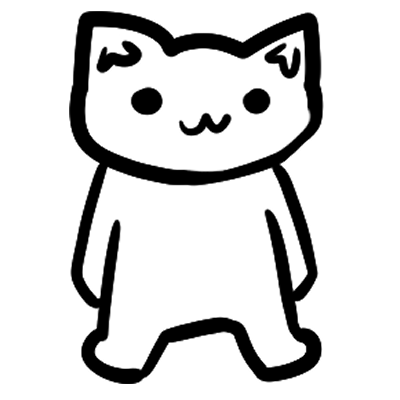
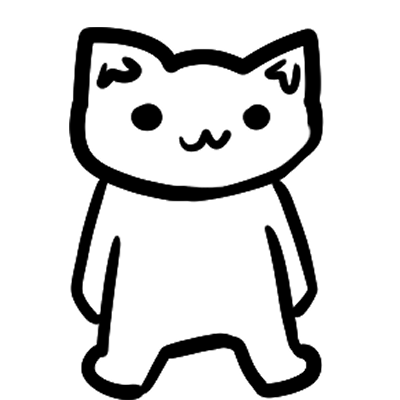
platforms

Changed region(s): [[0.15, 0.03, 0.81, 1.0]]

diff --git a/home.html b/home.html
@@ -14,6 +14,43 @@
 <p>Lorem ipsum dolor sit amet, consectetur adipisicing elit. Inventore quidem laboriosam optio, quaerat fugiat repudiandae assumenda quas blanditiis tempore? Delectus incidunt amet facere a odit. Hic quod recusandae nulla ad.</p>
         <div class="link" data-link="page3.html">Page 3</div>
     </div>
+    <div class="platform-zone" style="left: 100px; top: 300px; width: 400px; height: 1px;"></div>
+    <div class="platform-zone" style="left: 400px; top: 600px; width: 500px;"></div>
+    <div class="platform-zone" style="left: 600px; top: 1000px; width: 500px; height: 400px;"></div>
+
+    <p>Lorem ipsum dolor sit amet, consectetur adipisicing elit. Inventore quidem laboriosam optio, quaerat fugiat repudiandae assumenda quas blanditiis tempore? Delectus incidunt amet facere a odit. Hic quod recusandae nulla ad.</p>
+    <p>Lorem ipsum dolor sit amet, consectetur adipisicing elit. Inventore quidem laboriosam optio, quaerat fugiat repudiandae assumenda quas blanditiis tempore? Delectus incidunt amet facere a odit. Hic quod recusandae nulla ad.</p>
+    <p>Lorem ipsum dolor sit amet, consectetur adipisicing elit. Inventore quidem laboriosam optio, quaerat fugiat repudiandae assumenda quas blanditiis tempore? Delectus incidunt amet facere a odit. Hic quod recusandae nulla ad.</p>
+    <p>Lorem ipsum dolor sit amet, consectetur adipisicing elit. Inventore quidem laboriosam optio, quaerat fugiat repudiandae assumenda quas blanditiis tempore? Delectus incidunt amet facere a odit. Hic quod recusandae nulla ad.</p>
+    <p>Lorem ipsum dolor sit amet, consectetur adipisicing elit. Inventore quidem laboriosam optio, quaerat fugiat repudiandae assumenda quas blanditiis tempore? Delectus incidunt amet facere a odit. Hic quod recusandae nulla ad.</p>
+    <p>Lorem ipsum dolor sit amet, consectetur adipisicing elit. Inventore quidem laboriosam optio, quaerat fugiat repudiandae assumenda quas blanditiis tempore? Delectus incidunt amet facere a odit. Hic quod recusandae nulla ad.</p>
+    <p>Lorem ipsum dolor sit amet, consectetur adipisicing elit. Inventore quidem laboriosam optio, quaerat fugiat repudiandae assumenda quas blanditiis tempore? Delectus incidunt amet facere a odit. Hic quod recusandae nulla ad.</p>
+    <p>Lorem ipsum dolor sit amet, consectetur adipisicing elit. Inventore quidem laboriosam optio, quaerat fugiat repudiandae assumenda quas blanditiis tempore? Delectus incidunt amet facere a odit. Hic quod recusandae nulla ad.</p>
+    <p>Lorem ipsum dolor sit amet, consectetur adipisicing elit. Inventore quidem laboriosam optio, quaerat fugiat repudiandae assumenda quas blanditiis tempore? Delectus incidunt amet facere a odit. Hic quod recusandae nulla ad.</p>
+    <p>Lorem ipsum dolor sit amet, consectetur adipisicing elit. Inventore quidem laboriosam optio, quaerat fugiat repudiandae assumenda quas blanditiis tempore? Delectus incidunt amet facere a odit. Hic quod recusandae nulla ad.</p>
+    <p>Lorem ipsum dolor sit amet, consectetur adipisicing elit. Inventore quidem laboriosam optio, quaerat fugiat repudiandae assumenda quas blanditiis tempore? Delectus incidunt amet facere a odit. Hic quod recusandae nulla ad.</p>
+    <p>Lorem ipsum dolor sit amet, consectetur adipisicing elit. Inventore quidem laboriosam optio, quaerat fugiat repudiandae assumenda quas blanditiis tempore? Delectus incidunt amet facere a odit. Hic quod recusandae nulla ad.</p>
+    <p>Lorem ipsum dolor sit amet, consectetur adipisicing elit. Inventore quidem laboriosam optio, quaerat fugiat repudiandae assumenda quas blanditiis tempore? Delectus incidunt amet facere a odit. Hic quod recusandae nulla ad.</p>
+    <p>Lorem ipsum dolor sit amet, consectetur adipisicing elit. Inventore quidem laboriosam optio, quaerat fugiat repudiandae assumenda quas blanditiis tempore? Delectus incidunt amet facere a odit. Hic quod recusandae nulla ad.</p>
+    <p>Lorem ipsum dolor sit amet, consectetur adipisicing elit. Inventore quidem laboriosam optio, quaerat fugiat repudiandae assumenda quas blanditiis tempore? Delectus incidunt amet facere a odit. Hic quod recusandae nulla ad.</p>
+    <p>Lorem ipsum dolor sit amet, consectetur adipisicing elit. Inventore quidem laboriosam optio, quaerat fugiat repudiandae assumenda quas blanditiis tempore? Delectus incidunt amet facere a odit. Hic quod recusandae nulla ad.</p>
+    <p>Lorem ipsum dolor sit amet, consectetur adipisicing elit. Inventore quidem laboriosam optio, quaerat fugiat repudiandae assumenda quas blanditiis tempore? Delectus incidunt amet facere a odit. Hic quod recusandae nulla ad.</p>
+    <p>Lorem ipsum dolor sit amet, consectetur adipisicing elit. Inventore quidem laboriosam optio, quaerat fugiat repudiandae assumenda quas blanditiis tempore? Delectus incidunt amet facere a odit. Hic quod recusandae nulla ad.</p>
+    <p>Lorem ipsum dolor sit amet, consectetur adipisicing elit. Inventore quidem laboriosam optio, quaerat fugiat repudiandae assumenda quas blanditiis tempore? Delectus incidunt amet facere a odit. Hic quod recusandae nulla ad.</p>
+    <p>Lorem ipsum dolor sit amet, consectetur adipisicing elit. Inventore quidem laboriosam optio, quaerat fugiat repudiandae assumenda quas blanditiis tempore? Delectus incidunt amet facere a odit. Hic quod recusandae nulla ad.</p>
+    <p>Lorem ipsum dolor sit amet, consectetur adipisicing elit. Inventore quidem laboriosam optio, quaerat fugiat repudiandae assumenda quas blanditiis tempore? Delectus incidunt amet facere a odit. Hic quod recusandae nulla ad.</p>
+    <p>Lorem ipsum dolor sit amet, consectetur adipisicing elit. Inventore quidem laboriosam optio, quaerat fugiat repudiandae assumenda quas blanditiis tempore? Delectus incidunt amet facere a odit. Hic quod recusandae nulla ad.</p>
+    <p>Lorem ipsum dolor sit amet, consectetur adipisicing elit. Inventore quidem laboriosam optio, quaerat fugiat repudiandae assumenda quas blanditiis tempore? Delectus incidunt amet facere a odit. Hic quod recusandae nulla ad.</p>
+    <p>Lorem ipsum dolor sit amet, consectetur adipisicing elit. Inventore quidem laboriosam optio, quaerat fugiat repudiandae assumenda quas blanditiis tempore? Delectus incidunt amet facere a odit. Hic quod recusandae nulla ad.</p>
+    <p>Lorem ipsum dolor sit amet, consectetur adipisicing elit. Inventore quidem laboriosam optio, quaerat fugiat repudiandae assumenda quas blanditiis tempore? Delectus incidunt amet facere a odit. Hic quod recusandae nulla ad.</p>
+    <p>Lorem ipsum dolor sit amet, consectetur adipisicing elit. Inventore quidem laboriosam optio, quaerat fugiat repudiandae assumenda quas blanditiis tempore? Delectus incidunt amet facere a odit. Hic quod recusandae nulla ad.</p>
+    <p>Lorem ipsum dolor sit amet, consectetur adipisicing elit. Inventore quidem laboriosam optio, quaerat fugiat repudiandae assumenda quas blanditiis tempore? Delectus incidunt amet facere a odit. Hic quod recusandae nulla ad.</p>
+    <p>Lorem ipsum dolor sit amet, consectetur adipisicing elit. Inventore quidem laboriosam optio, quaerat fugiat repudiandae assumenda quas blanditiis tempore? Delectus incidunt amet facere a odit. Hic quod recusandae nulla ad.</p>
+    <p>Lorem ipsum dolor sit amet, consectetur adipisicing elit. Inventore quidem laboriosam optio, quaerat fugiat repudiandae assumenda quas blanditiis tempore? Delectus incidunt amet facere a odit. Hic quod recusandae nulla ad.</p>
+    <p>Lorem ipsum dolor sit amet, consectetur adipisicing elit. Inventore quidem laboriosam optio, quaerat fugiat repudiandae assumenda quas blanditiis tempore? Delectus incidunt amet facere a odit. Hic quod recusandae nulla ad.</p>
+    <p>Lorem ipsum dolor sit amet, consectetur adipisicing elit. Inventore quidem laboriosam optio, quaerat fugiat repudiandae assumenda quas blanditiis tempore? Delectus incidunt amet facere a odit. Hic quod recusandae nulla ad.</p>
+    <p>Lorem ipsum dolor sit amet, consectetur adipisicing elit. Inventore quidem laboriosam optio, quaerat fugiat repudiandae assumenda quas blanditiis tempore? Delectus incidunt amet facere a odit. Hic quod recusandae nulla ad.</p>
+d
     <p>Lorem, ipsum dolor sit amet consectetur adipisicing elit. Soluta, quibusdam debitis modi odio fugit pariatur repellendus earum iusto. Corporis tempora voluptas hic? Praesentium, inventore! Laudantium corrupti nam beatae repudiandae est.</p>
     <script src="script.js"></script>
 </body>

diff --git a/script.js b/script.js
@@ -1,90 +1,150 @@
 document.addEventListener('DOMContentLoaded', () => {
     const character = document.querySelector('.character');
     const links = document.querySelectorAll('.link');
+    const platforms = document.querySelectorAll('.platform-zone');
 
-    let x = window.innerWidth / 2 - 25; // Initial X position
+    let x = window.innerWidth / 2 - 25;  // Initial X position
     let y = window.innerHeight / 2 - 25; // Initial Y position
     const step = 8; // Horizontal movement step in pixels
     const gravity = 1; // Gravity force (in pixels per frame)
     const jumpStrength = -30; // Jump strength (negative for upward movement)
     let velocityY = 0; // Current vertical velocity
     const keys = {}; // Object to track pressed keys
-    const groundLevel = window.innerHeight+5; // aPosition of the ground (bottom of the screen)
+    let onGround = false; // To check if character is on a platform or ground
 
+    // Make sure to adjust the ground level and body height for scrolling
+    const groundLevel = document.documentElement.scrollHeight - character.offsetHeight;
+    document.body.style.height = `${document.documentElement.scrollHeight}px`;
 
-
-    
     // Set the initial position
     character.style.left = `${x}px`;
     character.style.top = `${y}px`;
 
-    // Check for collision between character and links
-    function checkCollision() {
+    // Check for collision with links
+    function checkCollisionWithLinks() {
         const charRect = character.getBoundingClientRect();
-
         links.forEach(link => {
             const linkRect = link.getBoundingClientRect();
-
-            // Check if the rectangles overlap
             if (
                 charRect.left < linkRect.right &&
                 charRect.right > linkRect.left &&
                 charRect.top < linkRect.bottom &&
                 charRect.bottom > linkRect.top
             ) {
-                // Navigate to the link's URL
                 window.location.href = link.dataset.link;
+            }
+        });
+    }
+
+    // Check for collision with platforms
+    function checkCollisionWithPlatforms() {
+        onGround = false; // Reset ground status
+
+        platforms.forEach(platform => {
+            // Get platform's absolute position
+            const platformTop = platform.offsetTop;
+            const platformBottom = platformTop + platform.offsetHeight;
+            const platformLeft = platform.offsetLeft;
+            const platformRight = platformLeft + platform.offsetWidth;
+
+            // Character's absolute position and hitbox dimensions
+            const characterTop = y;
+            const characterBottom = y + character.offsetHeight;
+            const characterLeft = x - 30;
+            const characterRight = x + character.offsetWidth - 70;
+
+            // Top collision (landing on platform)
+            if (
+                characterRight > platformLeft &&
+                characterLeft < platformRight &&
+                characterBottom <= platformTop + velocityY &&
+                characterBottom + velocityY >= platformTop &&
+                velocityY >= 0
+            ) {
+                y = platformTop - character.offsetHeight;
+                velocityY = 0;
+                onGround = true;
+            }
+
+            // Bottom collision (hitting the underside of the platform)
+            if (
+                characterRight > platformLeft &&
+                characterLeft < platformRight &&
+                characterTop >= platformBottom + velocityY &&
+                characterTop + velocityY <= platformBottom &&
+                velocityY < 0
+            ) {
+                y = platformBottom;
+                velocityY = 1; // Apply a slight downward force to simulate falling off
+            }
+
+            // Left collision (Character's right side collides with platform's left side)
+            if (
+                characterBottom > platformTop &&
+                characterTop < platformBottom &&
+                characterRight > platformLeft &&
+                characterLeft < platformLeft && // Check if character is on the left of the platform
+                characterRight - step <= platformLeft // Check if character's right side will collide with platform's left side
+            ) {
+                x = platformLeft - character.offsetWidth + 70; // Stop movement and align character to platform
+            }
+
+            // Right collision (Character's left side collides with platform's right side)
+            if (
+                characterBottom > platformTop &&
+                characterTop < platformBottom &&
+                characterLeft < platformRight &&
+                characterRight > platformRight && // Check if character is on the right of the platform
+                characterLeft + step >= platformRight // Check if character's left side will collide with platform's right side
+            ) {
+                x = platformRight + 30; // Stop movement and align character to platform
             }
         });
     }
 
     // Handle gravity and movement
     function updatePosition() {
-        // Apply gravity to vertical velocity
-        velocityY += gravity;
-
-        // Update Y position based on velocity
+        if (!onGround) velocityY += gravity;
         y += velocityY;
 
-        // Check if character hits the ground
-        if (y > groundLevel) {
-            y = groundLevel; // Reset position to ground level
-            velocityY = 0; // Stop downward movement
+        if (y >= groundLevel) {
+            y = groundLevel;
+            velocityY = 0;
+            onGround = true;
         }
 
-        // Check for jumping
-        if (keys['w'] && y === groundLevel) {
-            console.log('jump')
-            velocityY = jumpStrength; // Apply upward velocity
+        if ((keys['w'] || keys['W']) && onGround) {
+            velocityY = jumpStrength;
+            onGround = false;
         }
 
-        // Handle horizontal movement
-        if (keys['a']) {
-            x = Math.max(33, x - step); // Move left
-        }
-        if (keys['d']) {
-            x = Math.min(window.innerWidth - 32, x + step); // Move right
-        }
+        if (keys['a'] || keys['A']) x = Math.max(30, x - step);
+        if (keys['d'] || keys['D']) x = Math.min(window.innerWidth - 30, x + step);
 
-        // Update character position
         character.style.left = `${x}px`;
         character.style.top = `${y}px`;
 
-        // Check for collision
-        checkCollision();
+        checkCollisionWithLinks();
+        checkCollisionWithPlatforms();
+
+        scrollToKeepCharacterInView(); // Ensure the page scrolls with character
     }
 
-    // Listen for keydown events to mark keys as active
-    document.addEventListener('keydown', (event) => {
-        keys[event.key] = true;
-    });
+    function scrollToKeepCharacterInView() {
+        const charRect = character.getBoundingClientRect();
+        const viewportBottom = window.innerHeight;
 
-    // Listen for keyup events to mark keys as inactive
-    document.addEventListener('keyup', (event) => {
-        keys[event.key] = false;
-    });
+        if (charRect.bottom > viewportBottom - 50) {
+            window.scrollBy(0, charRect.bottom - viewportBottom + 50); // Scroll down
+        }
+        if (charRect.top < 100) {
+            window.scrollBy(0, charRect.top - 100); // Scroll up if needed
+        }
+    }
 
-    // Continuously update the game state
+    document.addEventListener('keydown', (event) => keys[event.key] = true);
+    document.addEventListener('keyup', (event) => keys[event.key] = false);
+
     function gameLoop() {
         updatePosition();
         requestAnimationFrame(gameLoop);

diff --git a/script2.js b/script2.js
@@ -1,7 +1,7 @@
 document.addEventListener('DOMContentLoaded', () => {
     const imgElement = document.getElementById('animation');
     const images = [
-        { src: 'Assets/bite1.png', duration: 3000 },
+        { src: 'Assets/bite1.png', duration: 1000 },
         { src: 'Assets/bite2.png', duration: 100 },
         { src: 'Assets/bite3.png', duration: 100 },
         { src: 'Assets/bite4.png', duration: 100 },

diff --git a/styles.css b/styles.css
@@ -14,7 +14,7 @@ body {
     position: absolute;
     left: 50%;
     top: 50%;
-    transform: translate(-50%, -100%);
+    transform: translate(-50%, 0%);
     cursor: none;
 
 }
@@ -40,4 +40,10 @@ body {
 .link:hover {
     background: #007bff;
     cursor: none;
+}
+
+.platform-zone {
+    position: absolute;
+    background-color: blue;
+    height: 20px;
 }

diff --git a/styles2.css b/styles2.css
@@ -3,13 +3,14 @@ body {
     justify-content: center;
     align-items: center;
     height: 100vh; /* Full viewport height */
-    margin: 0;
+    margin: 50;
 }
 
 img1 {
     display: flex;
     justify-content: center;
     align-items: center;
+    flex-direction: column;  /* Stack items vertically */
 }
 
 img1 img {

diff --git a/index.html b/index.html
@@ -8,7 +8,9 @@
     <title>Document</title>
 </head>
 <body>
+
     <img1>
+        <h1>Hello click on me to enter the website!</h1>
         <a href="start2.html" target="">
             <img src="Assets/startCharacter.png" alt="Start Character">
         </a>    
